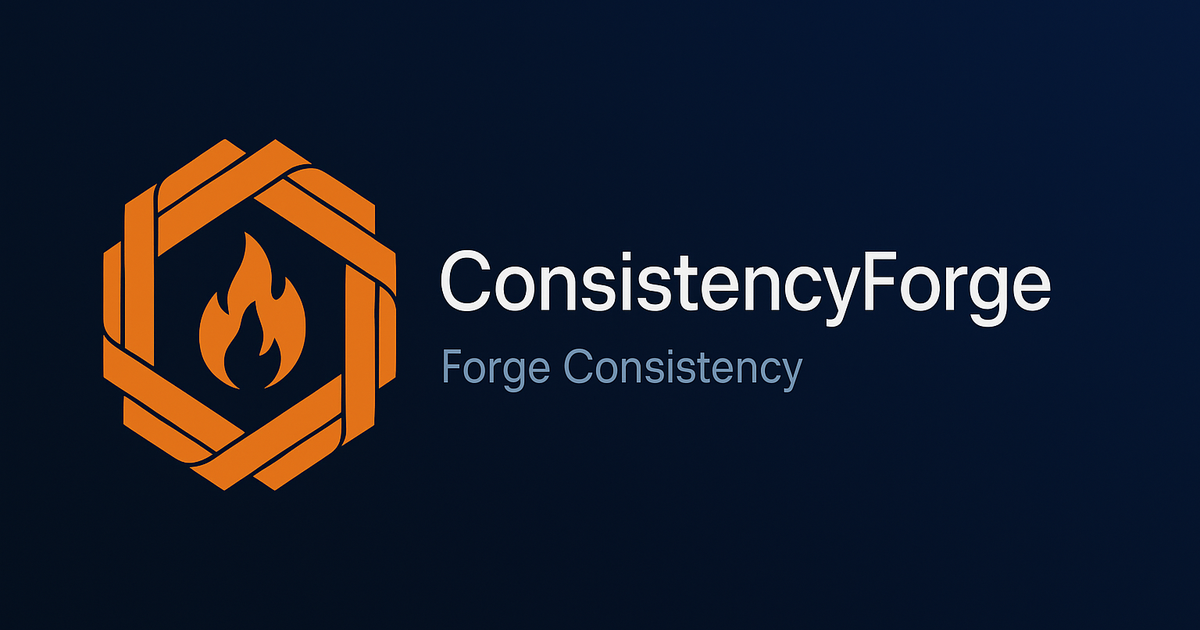
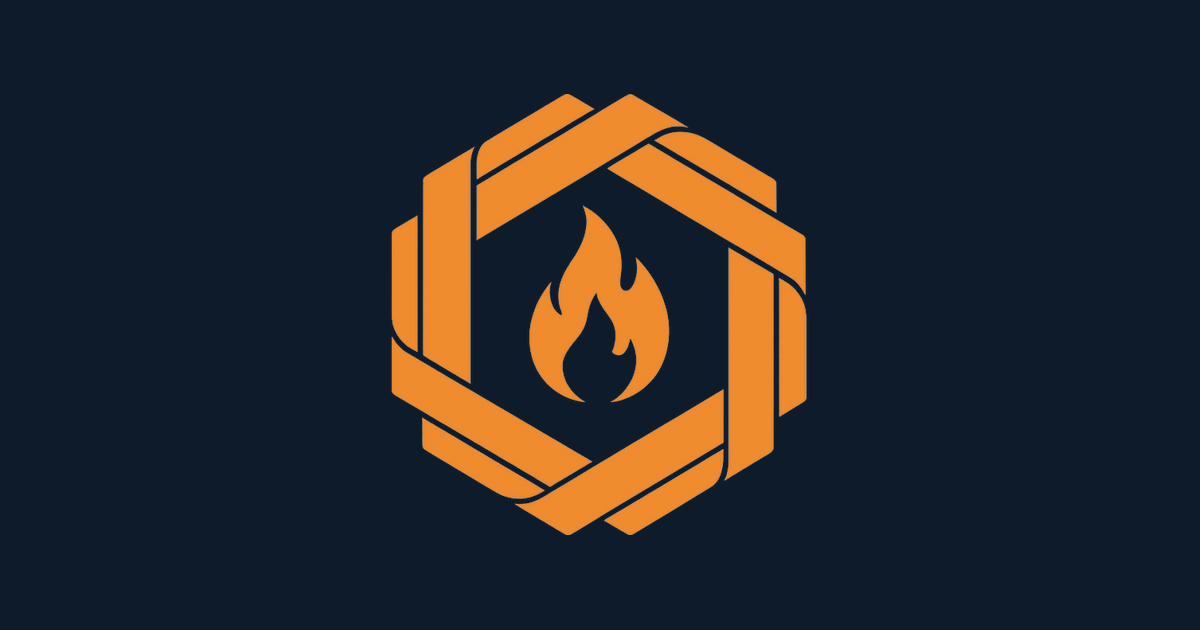
Replace all brand assets with series-tight (proper vector traces)
Use correctly traced SVGs from series-tight instead of crude geometric
approximations. Main logo now uses proper vector SVG (logo.svg) traced
from the authorized raster, giving crisp rendering at all sizes.

Changed region(s): [[0.0617, 0.1508, 0.8942, 0.8444]]

diff --git a/index.html b/index.html
@@ -48,7 +48,7 @@
     <canvas id="particles"></canvas>
 
     <nav class="nav">
-        <div class="nav-logo"><img src="logo-512.png" alt="ConsistencyForge" class="nav-logo-img"></div>
+        <div class="nav-logo"><img src="logo.svg" alt="ConsistencyForge" class="nav-logo-img"></div>
         <div class="nav-links">
             <a href="#how" class="nav-link">How it works</a>
             <a href="#pricing" class="nav-link">Pricing</a>
@@ -62,7 +62,7 @@
             <div class="hero-content">
                 <div class="hero-symbol">
                     <span class="symbol-glow"></span>
-                    <img src="logo-512.png" alt="ConsistencyForge" class="symbol-icon">
+                    <img src="logo.svg" alt="ConsistencyForge" class="symbol-icon">
                 </div>
                 <h1 class="hero-title">
                     <span class="title-line"><span class="title-word">CONSISTENCY</span></span>
@@ -251,7 +251,7 @@
         <!-- Section 8: Footer -->
         <section class="section section-footer" data-section="8">
             <div class="footer-content">
-                <div class="footer-logo"><img src="logo-512.png" alt="ConsistencyForge" class="footer-logo-img"></div>
+                <div class="footer-logo"><img src="logo.svg" alt="ConsistencyForge" class="footer-logo-img"></div>
                 <div class="footer-text">CONSISTENCYFORGE</div>
                 <div class="footer-links">
                     <a href="https://app.consistencyforge.com/terms" class="footer-link">Terms</a>
